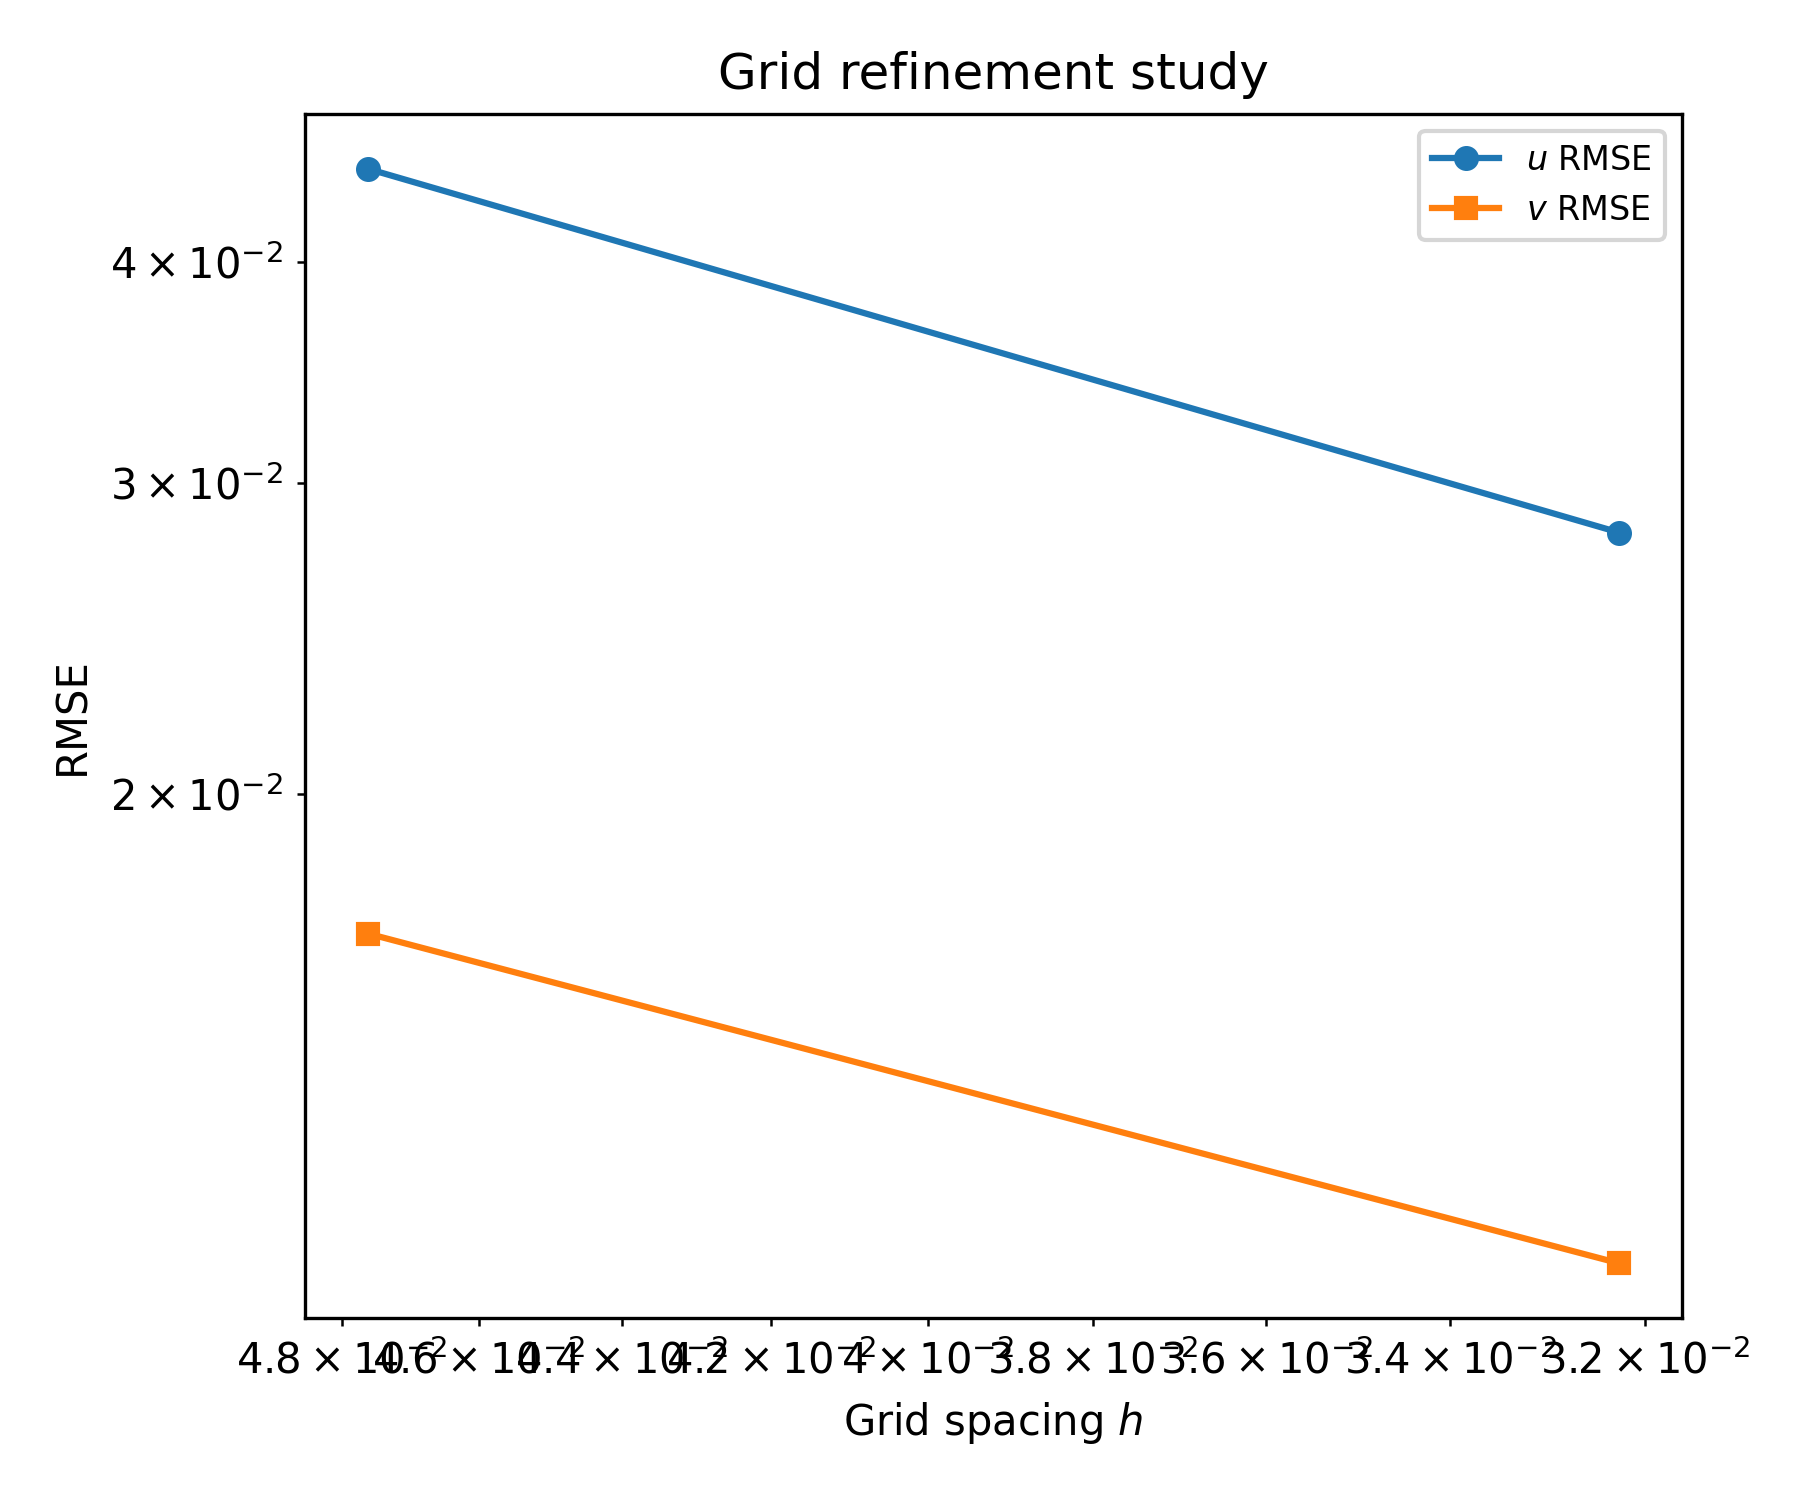
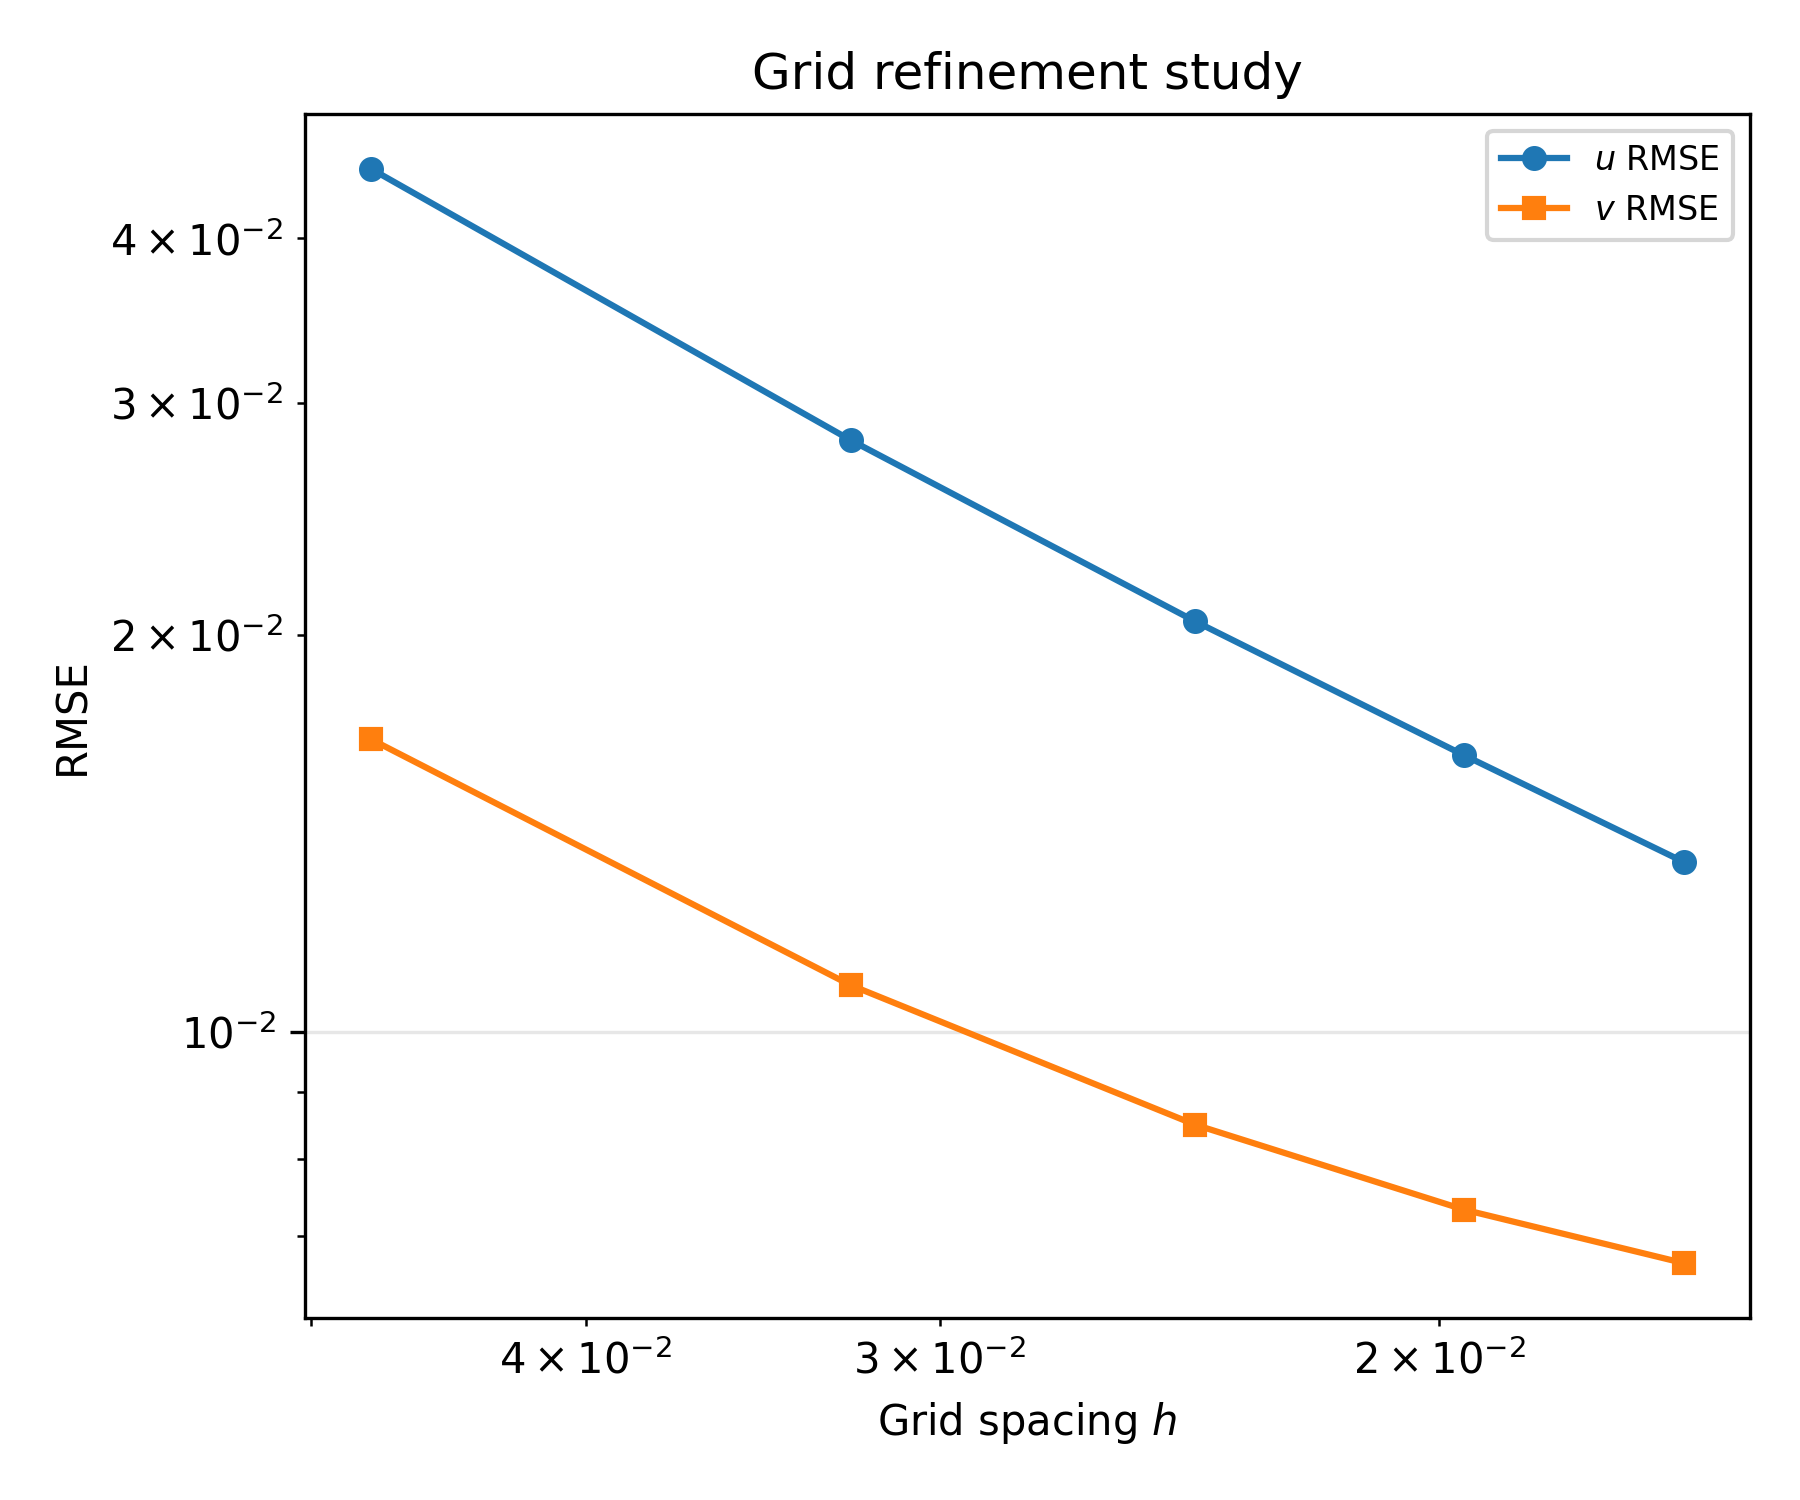
run final slover

diff --git a/run_projection_solver.py b/run_projection_solver.py
@@ -32,8 +32,8 @@ from diag import (
 # Final report results use a 61x61 MAC pressure grid.
 # Smaller grids such as 21x21 are useful only for quick debugging.
 # -------------------------------------------------
-Nx = 21
-Ny = 21
+Nx = 61
+Ny = 61
 
 Re = 100.0
 nu = 1.0 / Re

diff --git a/grid_convergence_study.py b/grid_convergence_study.py
@@ -35,7 +35,7 @@ def run_case(N, nsteps=5000, dt=5e-3, Re=100.0):
     return errors, history
 
 if __name__ == "__main__":
-    grid_list = [21, 31]
+    grid_list = [21, 31, 41, 51, 61]
 
     u_errors = []
     v_errors = []
